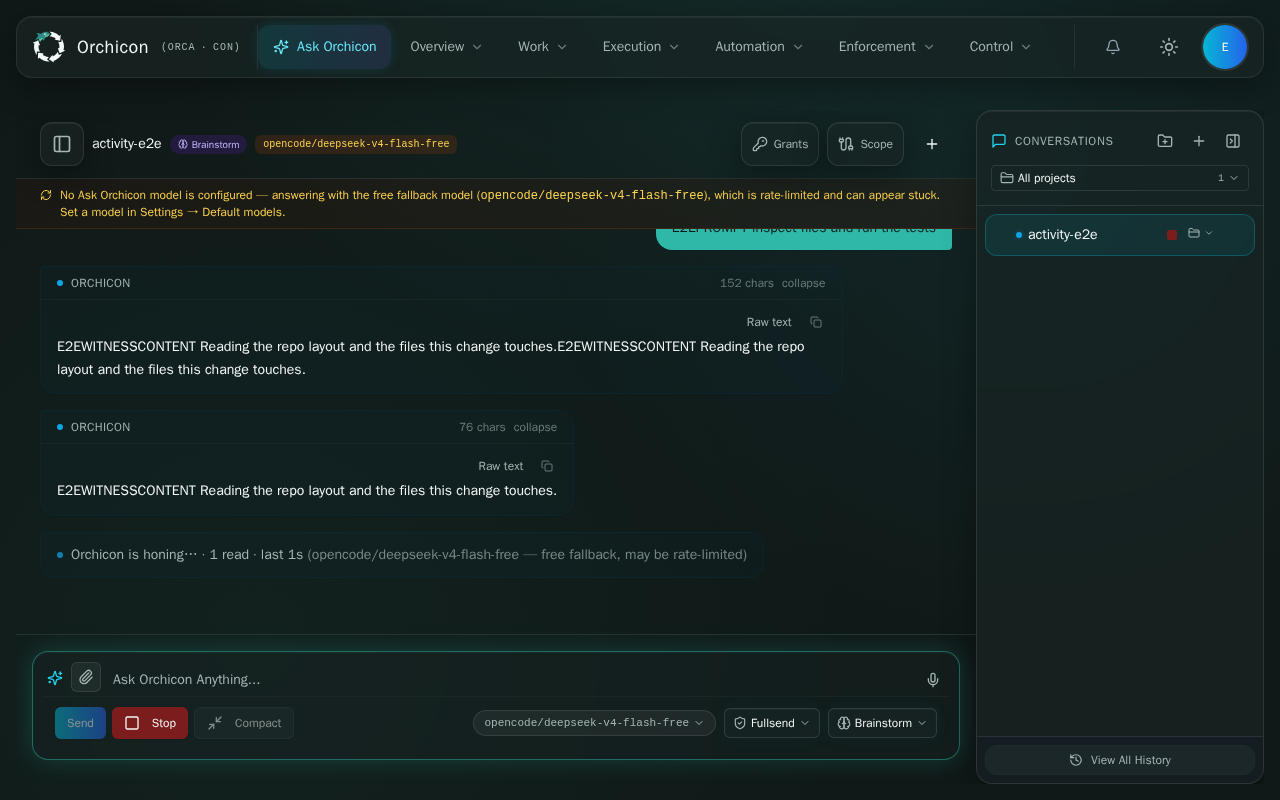
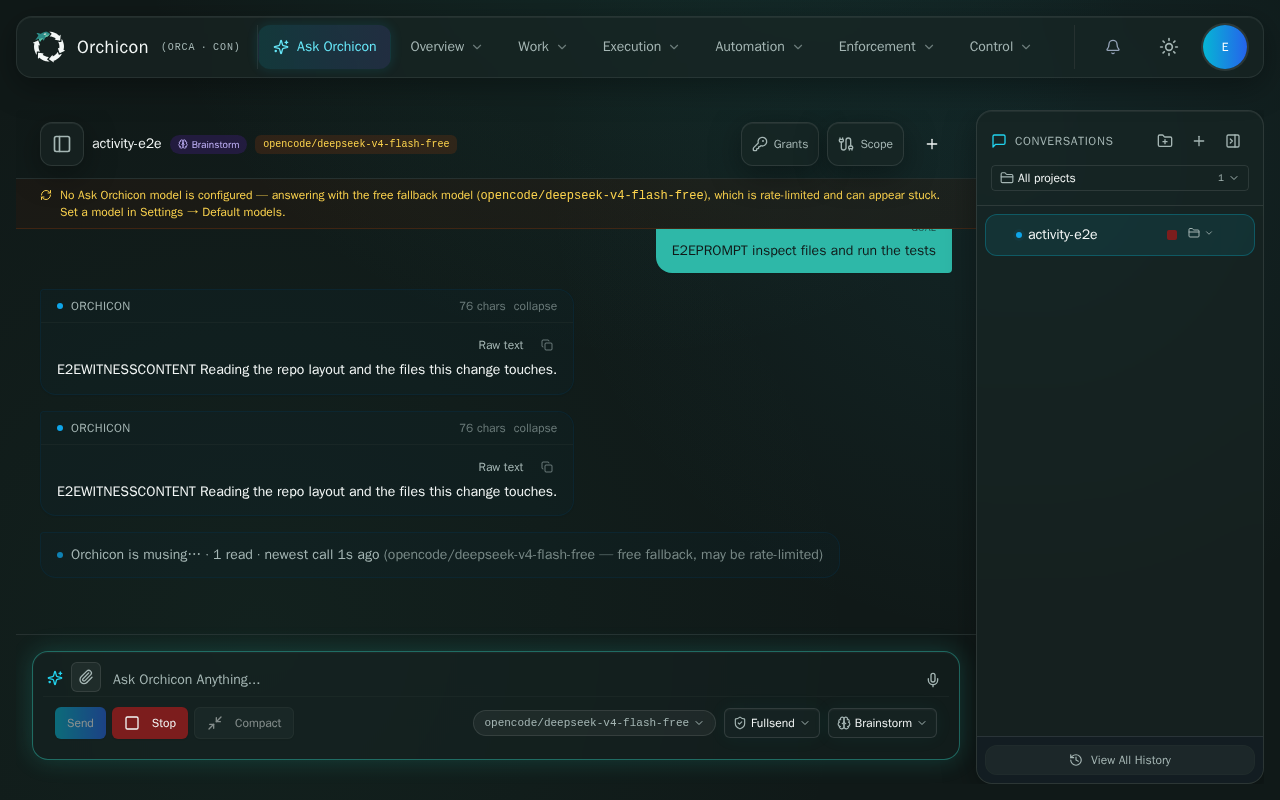
test(activity-line): QA re-captures the live e2e evidence with the new age wording
Verified 6d54369b against every AC: build + go test (toolclass/tui/askorchicon incl. DB) green,
vitest 796/796, tsc clean, semgrep 0 findings. Independent measurement (real Classify over the real
product registry): 84 of 85 product tools now count as `other` (only ask_user ignored). AC11/AC12
proven by mutation: deleting IssuedAtUnixMs from askToolCallJSON turns BOTH the terminal-sanitizer
test and the finished-row DB test RED; restored green. Re-ran both live e2e legs (real pty + real
browser) so the captured frames carry 'newest call Ns ago', not the stale 'last Ns'.

diff --git a/qa-evidence/activity-tally/QA-verification.md b/qa-evidence/activity-tally/QA-verification.md
@@ -1,0 +1,70 @@
+# QA verification — activity tally under-report
+
+QA Engineer (step 4). Verified commit `6d54369b` (on top of the SSE's `862bd167`) against every
+acceptance criterion, fixed nothing (no defect found), and re-captured the live e2e evidence so no
+stale wording ships.
+
+## Suites run (all green)
+
+| Suite | Result |
+|---|---|
+| `go build ./...` | OK |
+| `go test ./internal/toolclass/ ./internal/tui/... ./internal/askorchicon/` | all `ok` (askorchicon incl. DB-backed) |
+| `npx vitest run` (frontend) | **796/796 passed**, 77 files |
+| `npx tsc -b` | clean |
+| `semgrep --config auto --error` on changed `.go`/`.ts`/`.tsx` | 0 findings |
+
+## Independent measurement (AC1/AC2) — not taken on trust
+
+Ran the REAL `toolclass.Classify` over the REAL product registry (`askorchicon.NewToolRegistry`):
+
+```
+REGISTRY total=85 modify=0 read=0 bash=0 other=84 ignore=1   (only `ask_user` ignored)
+HOSTSUITE ignore=1 other=0                                     (todowrite)
+```
+
+So the fix counts 84 of 85 product tools that the old unknown-name default silently dropped. The
+operator's 3-bash + 9-product-call turn renders **before** `3 bash · last 0s` → **after**
+`3 bash · 9 other tools · newest call 0s ago` — asserted live by `TestTheOperatorTurnIsFullyCounted`
+over real `recordStart`/`snapshot()` bytes.
+
+## AC11 / AC12 — mutation tests, both proven RED then restored
+
+`chathistory.go`'s `askToolCallJSON` is the only struct RE-MARSHAL over the `tool_calls` column.
+Deleting its `IssuedAtUnixMs` field and re-running:
+
+- `TestToolLedgerSurvivesTheTerminalSanitizer` → **RED** (`issued_at_unix_ms = 0 after the terminal repair`).
+- `TestLiveToolLedgerPersistsCallsAndResults` (DB round-trip, finished row) → **RED**
+  (`the finished row's tool_calls lost their issue stamp`).
+
+Restored → both green. Every other path over the column (`toolCallsFromJSON`, `reloadSnapshot`,
+`sanitizeHistoryRows`'s per-turn history read, the native session file, compaction, `messageRowToProto`)
+either passes through untouched or re-marshals through the now-stamp-carrying struct; `toolCallsFromJSON`
+is separately guarded by `TestToolCallsFromJSONCarriesTheStamp`/`TestTheIssueStampSurvivesTheWire`.
+
+## Live e2e (surface-impact) — re-captured
+
+The activity line is user-visible in BOTH the TUI footer and the GUI status region, so the change
+was verified on both LIVE surfaces through the real harness (real `bin/orch` in a real pty; real SPA
+in headless Chromium):
+
+- TUI leg `TestActivityLineE2E` (+ `TurnEnd`, `ZeroToolCalls`) — **PASS**; re-captured frames now read
+  `… · 1 modify · 2 reads · 1 bash · newest call 1s ago` (previously the stale `· last 1s`).
+- GUI leg `frontend/tests/activity-line-e2e.spec.ts` — **2/2 PASS**; `gui-activity-line.txt` reads
+  `Orchicon is ruminating… · 1 modify · 2 reads · 1 bash · newest call 1s ago`, and the cross-client
+  handshake (`tui-cross-client.json`) confirms both clients drew the same word and counts at the same
+  server stamp.
+- AC10: exactly **1** frame row carries the activity line in every captured frame (with counters and
+  with none) — the one-row budget holds.
+
+## Criteria verdict
+
+1 measured ✓ (evidence `AC1-measurement.md` + independent registry run above, before/after stated);
+2 counts the real work ✓ (84/85 counted; `3 bash` → `3 bash · 9 other tools`); 3 `ask_user`/`permission.*`
+uncounted ✓ (`TestClassifyAskUserNeverCounted`, `TestClassifyPermissionRecordsNeverCounted`); 4 parity ✓
+(17-case fixture asserted from both sides, both suites green); 5 empty case ✓; 6 fixed ordering ✓; 7 age
+reads as "newest call Ns ago" not a window ✓; 8 30s window unchanged ✓; 9 no clock/plumbing change ✓
+(`tool_ledger.go`, `service.go`, proto, `controller.go`, `toolCallsFromMessages` all untouched in the
+diff); 10 row budget ✓; 11 candidate D checked + mutation-proven ✓; 12 finished row stamped ✓.
+
+No defect found; nothing to fix.
